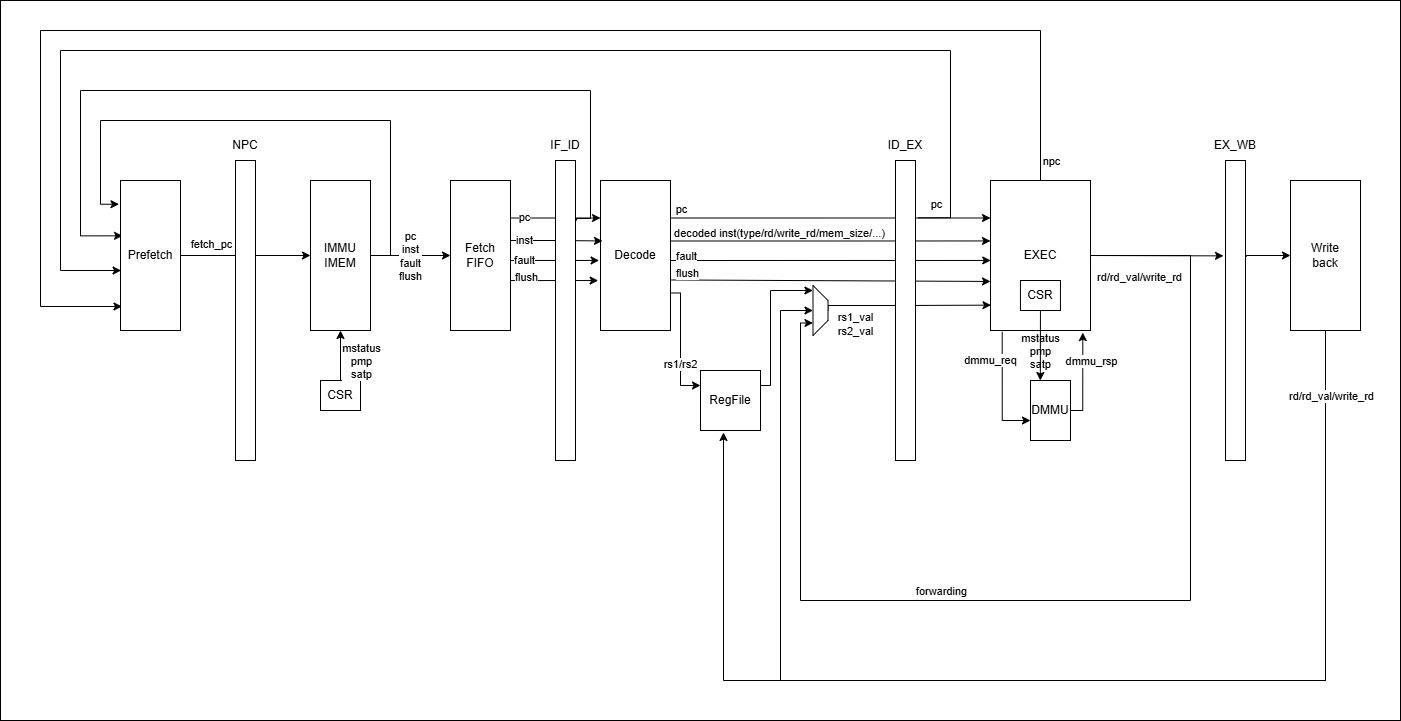
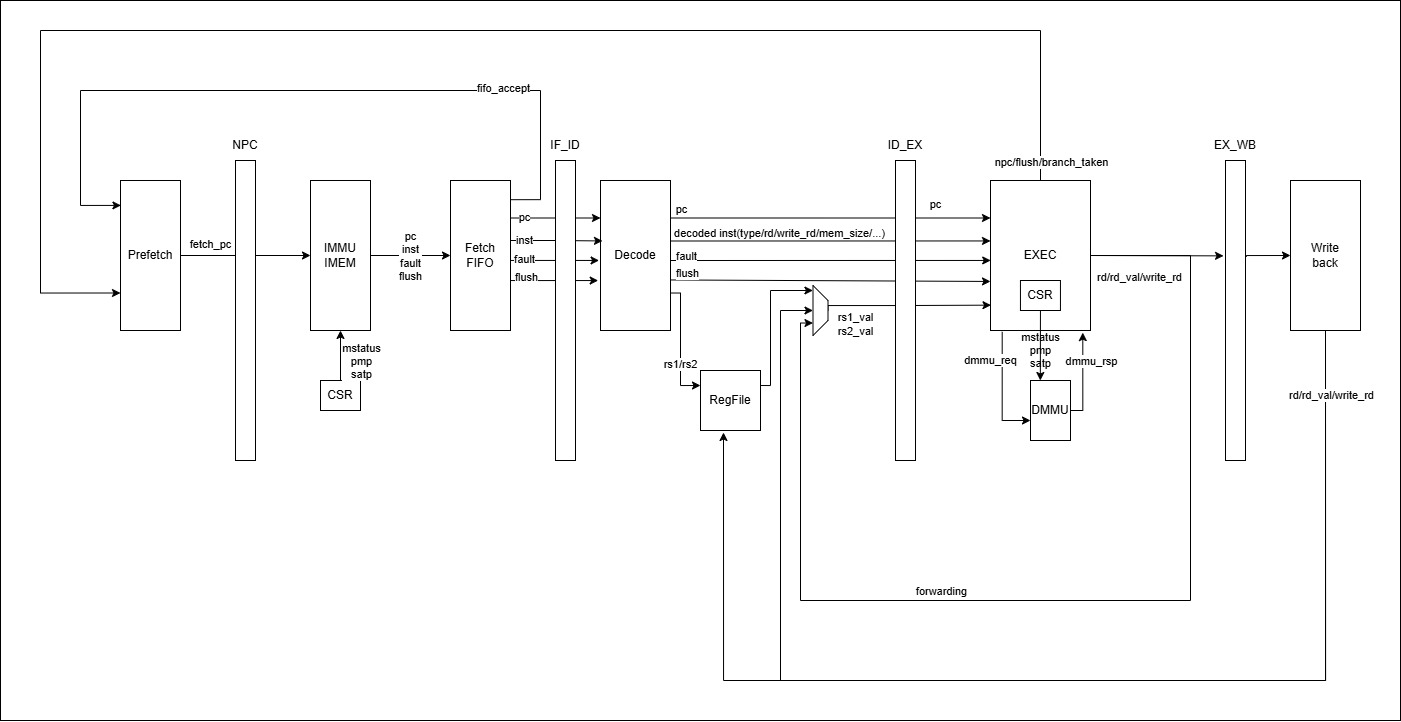
Update riscv.jpg and remove unused signal from prefetch.hpp

diff --git a/src/cpu.hpp b/src/cpu.hpp
@@ -141,7 +141,6 @@ SC_MODULE(CPU)
         // prefetch
         prefetch->clk(clk);
         prefetch->rst(rst);
-        prefetch->immu_ready(immu_ready);
         prefetch->flush(flush);
 
         prefetch->branch_taken(branch_taken);

diff --git a/src/prefetch.hpp b/src/prefetch.hpp
@@ -7,7 +7,6 @@ SC_MODULE(PreFetch)
 {
     sc_in<bool> clk;
     sc_in<bool> rst;
-    sc_in<bool> immu_ready;
     sc_in<uint32_t> npc;
     sc_in<bool> if_id_accept;
 
